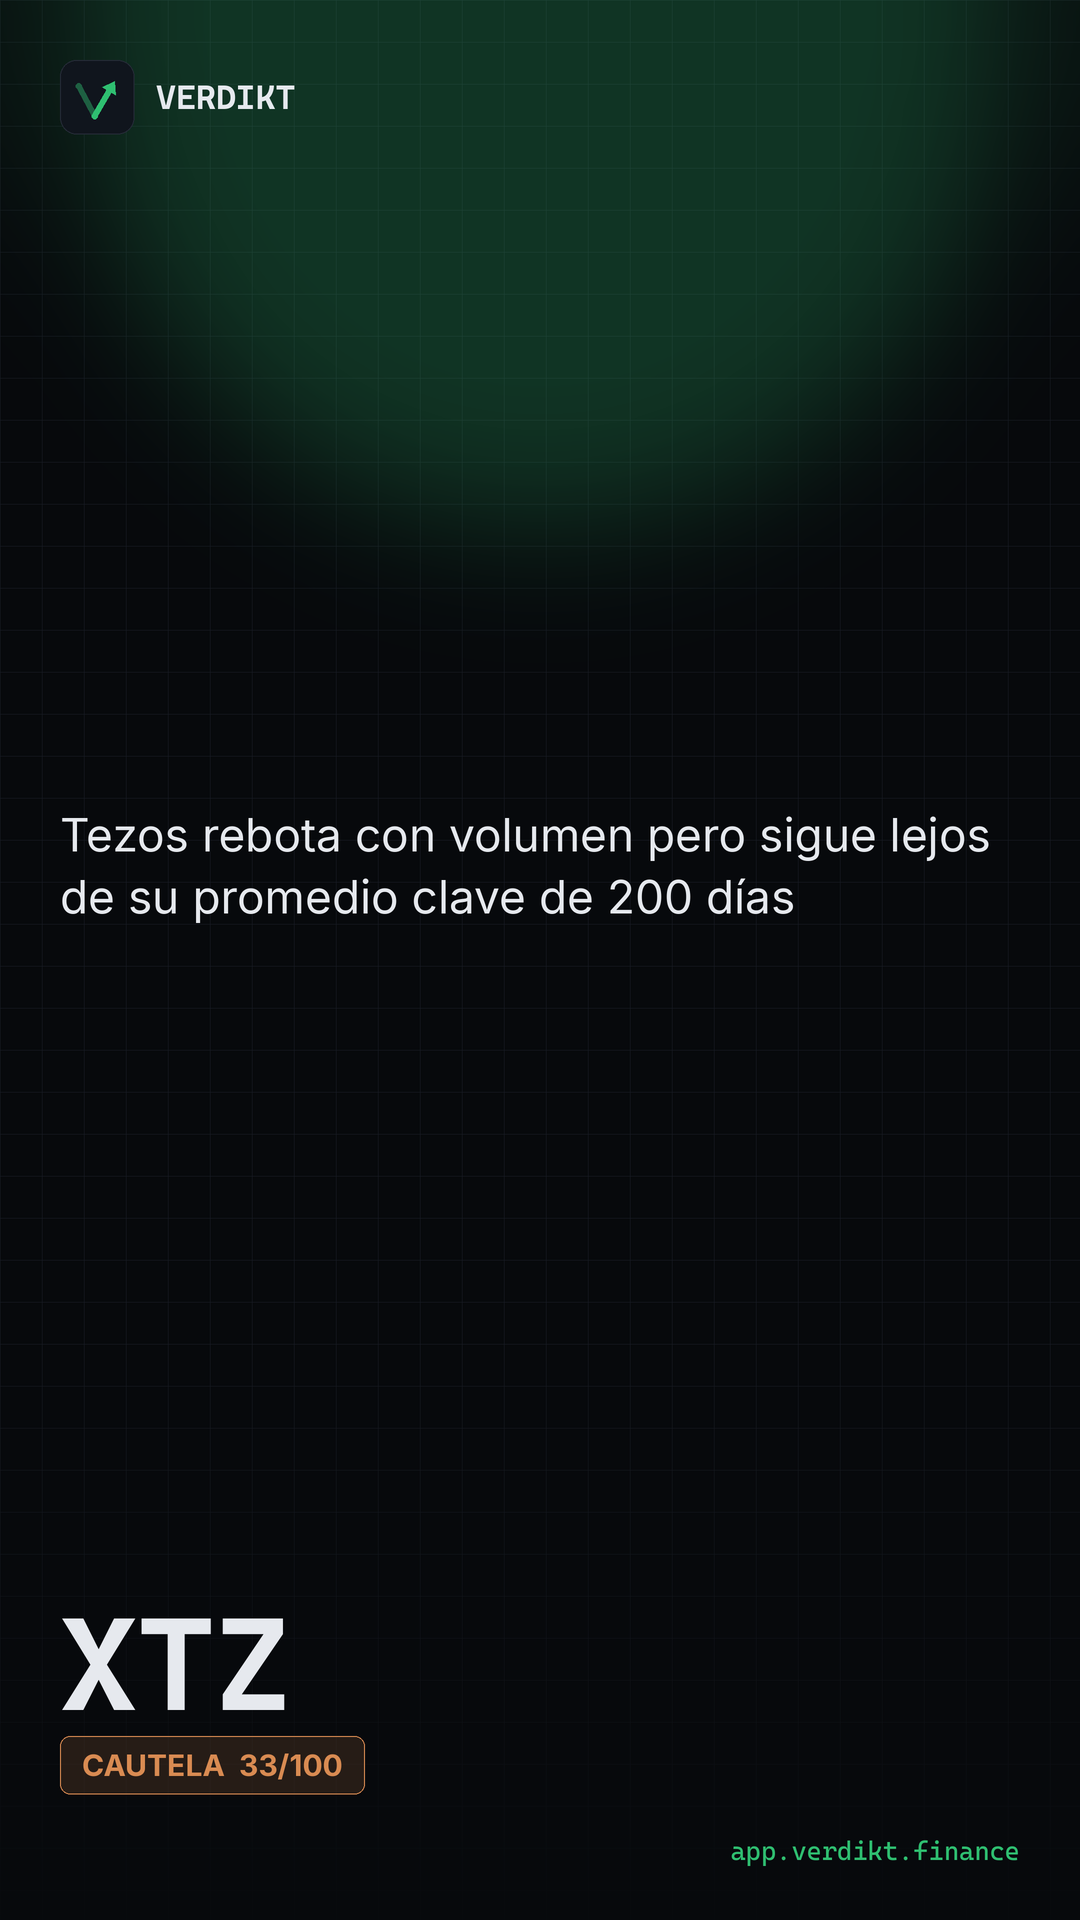
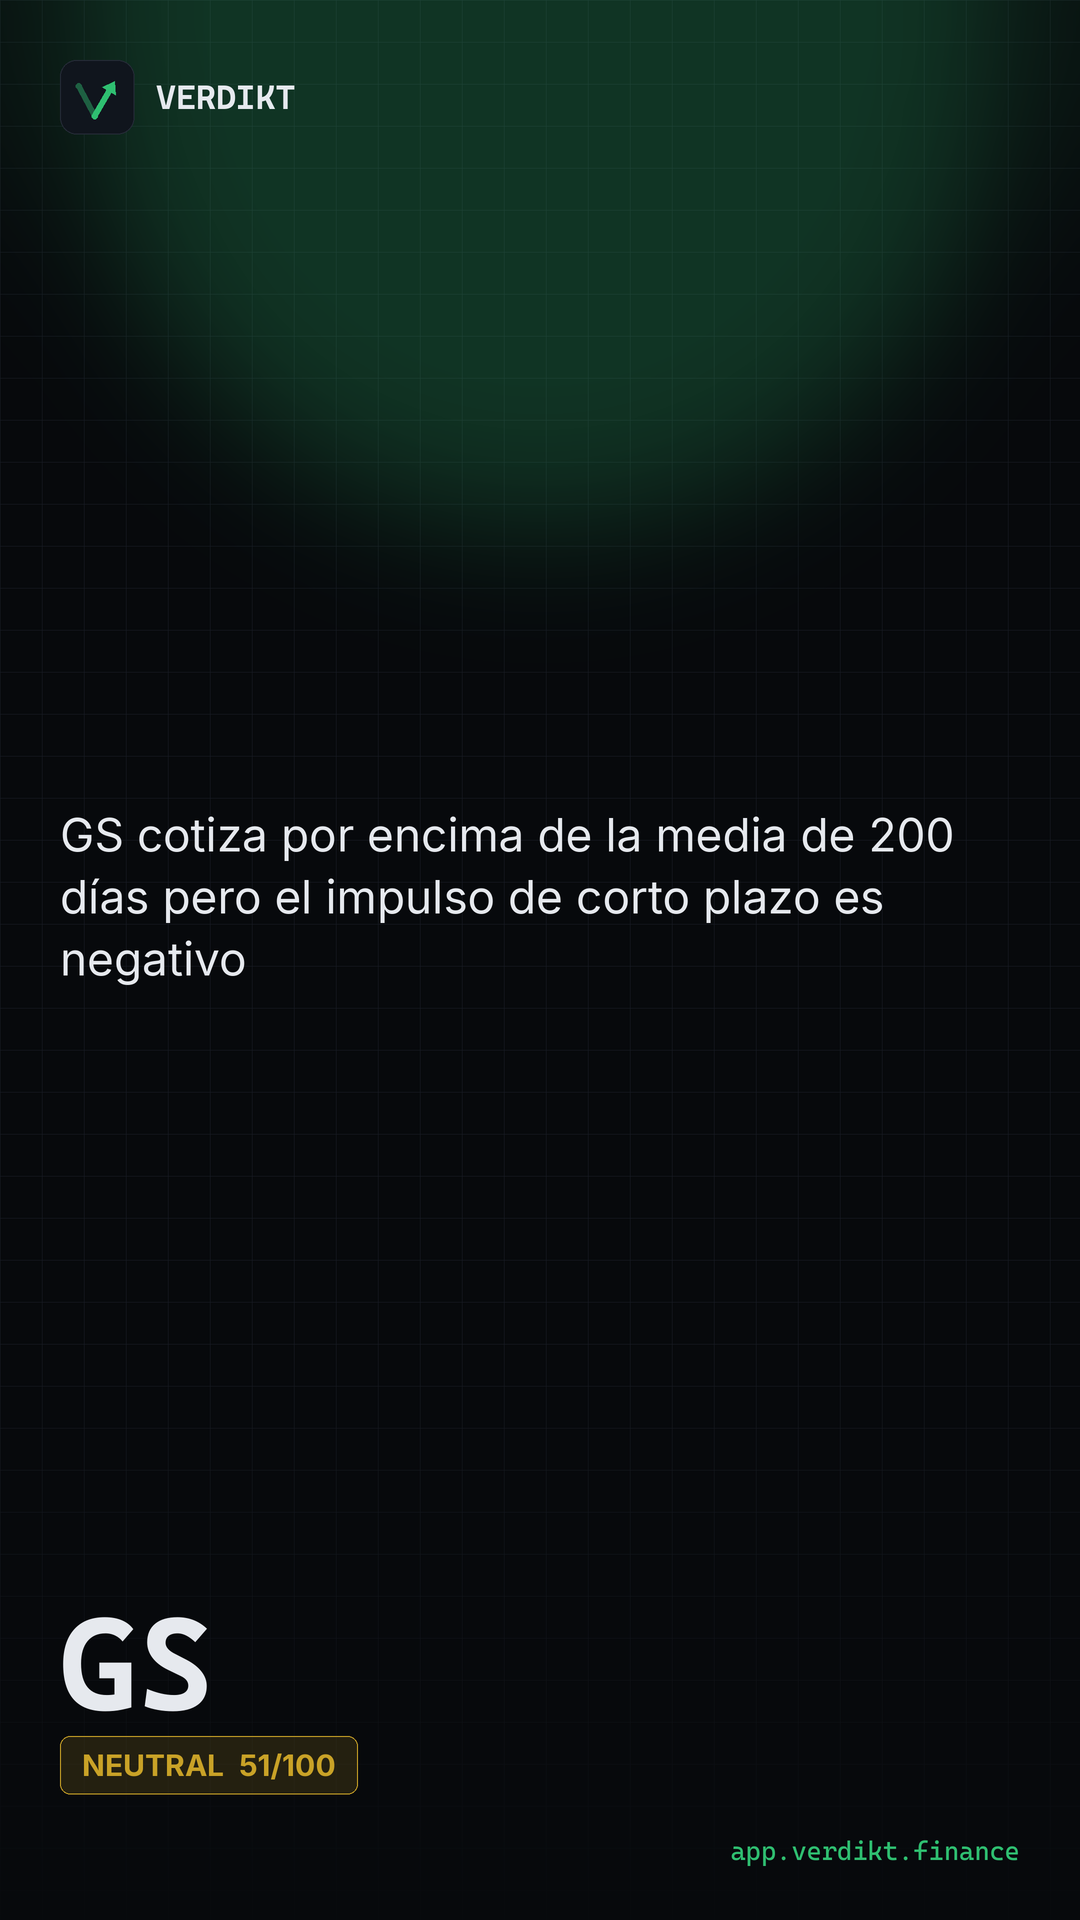
IG: reel pendiente de revision (2026-09-01)

Changed region(s): [[0.0611, 0.4062, 0.9167, 0.5312], [0.0611, 0.8438, 0.3361, 0.9375]]

diff --git a/ig/pendientes/2026-09-01/APROBAR.md b/ig/pendientes/2026-09-01/APROBAR.md
@@ -1,15 +1,15 @@
-caratula: mia-marca
+caratula: 0
 descartar: no
 
 <!--
-  caratula:  0 (plantilla) · mia (la tuya)
+  caratula:  0 (plantilla) · 1 · 2 · 3
   descartar: 'si' = no publicar hoy, saltear este activo.
   Guardá y commiteá: el reel se publica solo en ~2 min.
 -->
 
-# XTZ · CAUTELA 33/100
+# GS · NEUTRAL 51/100
 
-crypto — Tezos
+stock — Goldman Sachs
 
 ## Prompt para ChatGPT (carátula)
 
@@ -17,17 +17,17 @@ Copiá esto en ChatGPT, ajustá lo que quieras, bajá la imagen,
 guardala en esta carpeta como `cover-mia.png` y poné `caratula: mia` arriba.
 
 ```
-Un gráfico técnico minimalista y conceptual en formato vertical 9:16. El fondo es de color negro mate (#07090C). En el centro de la composición, una línea fina y discontinua de color verde apagado (#2FBF71) avanza de forma ascendente pero débil. Muy por encima de ella, una línea gris fría, gruesa y continua, traza una curva descendente que actúa como una barrera pesada e inalcanzable. El espacio entre ambas líneas es amplio, enfatizando la distancia. Estilo de ilustración editorial financiera, plano, vectorial, con mucho aire y espacio negativo. Sin texto, sin personas, sin velas japonesas, sin logos ni elementos tridimensionales. Dejar el tercio inferior de la imagen completamente despejado.
+Ilustración conceptual de estilo editorial financiero para portada vertical de Instagram (9:16). Una estructura arquitectónica minimalista donde una viga sólida y recta de color gris claro sostiene desde abajo a un bloque de piedra oscuro que se está deslizando levemente hacia un lado. La composición es limpia, con mucho aire y espacio vacío. El fondo es casi negro (#07090C), con líneas de guía grises muy finas y un sutil trazo verde apagado (#2FBF71) que resalta el punto de apoyo. Estilo gráfico plano, técnico, vectorial de alta precisión, sin texturas ruidosas. Evitar personas, manos, rostros, logos corporativos y elementos 3D brillantes. Dejar el tercio inferior completamente libre de elementos para texto.
 ```
 
 ## Caption
 
-    Tezos registra un veredicto de cautela con un score de 33 sobre 100.
-    Aunque el volumen acompaña el rebote del 10% en el último mes, la tendencia de fondo sigue siendo bajista.
-    El precio cotiza un 29% por debajo de su media móvil de 200 días, la zona que necesita recuperar para cambiar de sesgo.
+    Goldman Sachs entra en zona de indecisión con un score de 51 sobre 100 y veredicto neutral.
+    Aunque la tendencia de largo plazo se sostiene sobre la media de 200 días, el impulso de corto plazo se debilitó con el cruce negativo del MACD.
+    El nivel clave a vigilar son los 942.70 dólares; perder ese soporte comprometería la estructura alcista principal.
     
     El score va de 0 a 100 y resume el panorama tecnico del activo. Se recalcula todos los dias con el cierre.
     
 
 ---
-Archivos de carátula en la carpeta: cover-plantilla.png
+Archivos de carátula en la carpeta: cover-1.png, cover-2.png, cover-3.png
